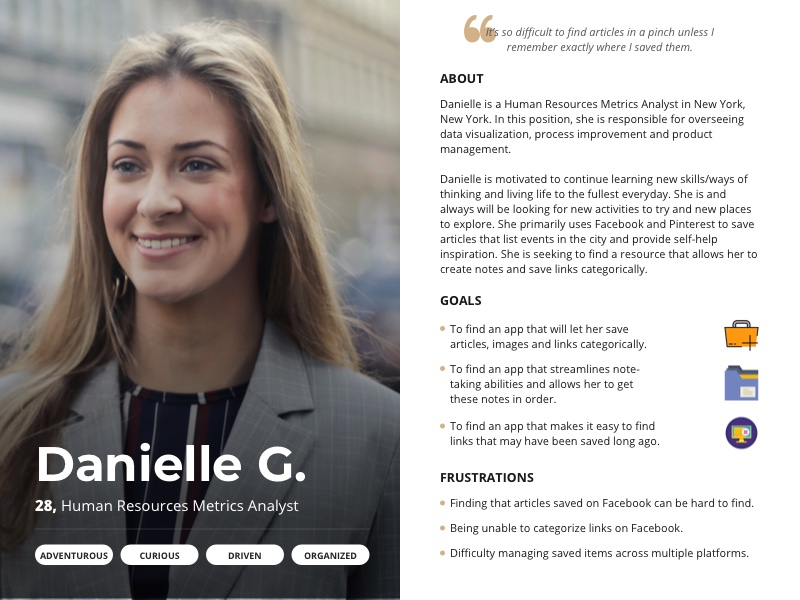
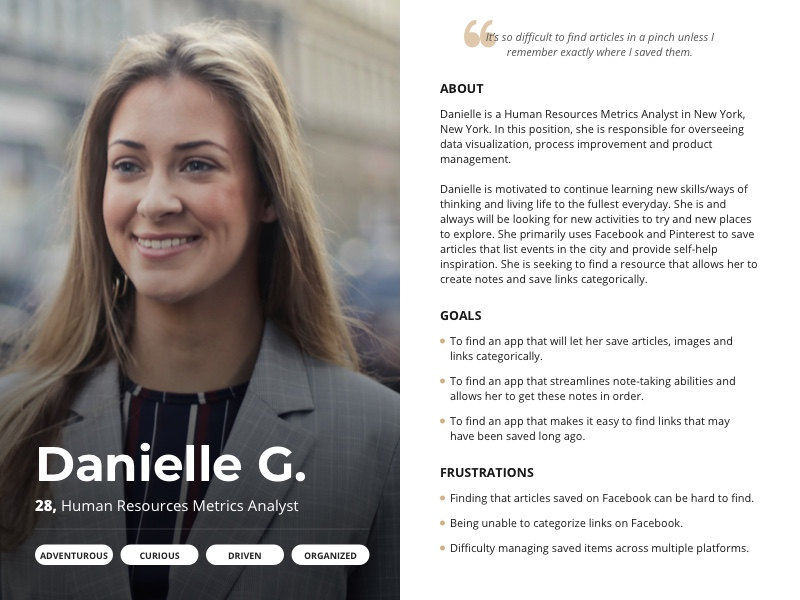
Personas update

diff --git a/yattavision.html b/yattavision.html
@@ -170,43 +170,27 @@
 										</ul>
 										<div class="read_me">
 											<a href="https://docs.google.com/document/d/1JsE6pN4huqqCILlFq3_0Rf4jnadxgwpf282lmWpbcBM/edit?usp=sharing" target="_blank" class="read">Read the full User Survey Analysis here</a>
-										</div>
-									</div>
-								</div>
-							</div>
-						</div>
-					</div>
-			   </div>
-			    <div class="persons_blog">
-				  <div class="container">
-					 <div class="persons persons1">
-						<h2>User Personas</h2>
-						<div class="nicks nicks2">
-							<ul>
-								<li><a href="#"><img src="images/img74.png" alt="img74"></a></li>
-								<li><a href="#"><img src="images/img75.png" alt="img75"></a></li>
-								<li><a href="#"><img src="images/img76.png" alt="img76"></a></li>
-								<li><a href="#"><img src="images/img77.png" alt="img77"></a></li>
-							</ul>
-							<div class="clear"></div>
-						</div>
-						<div class="persons_list persons_list1">
-							<ul>
-								<li><p><span>John,</span> 28, says that having an LTE-capable pair of eyeglasses with effective voice recognition software and smartphone functionality would be a very appealing prospect to him.
-</p></li>
-								<li><p><span>Mike,</span> 28, wants notifications to be delivered directly to his glasses-this would help keep him on top of his work and prevent distraction while driving or when he is out with family and friends.</p></li>
-								<li><p><span>Anna,</span> 24, experiences back/neck pain and posture issues after prolonged use of her iPhone and iPad. She is also looking to avoid eye strain whenever possible.</p></li>
-								<li class="last"><p><span>Maggie,</span> 64, needs ”a device that would use only hand gestures and voice control…this would help to alleviate a lot of my technological frustration.”</p></li>
-							</ul>
-						</div>
-						<div class="read_me read_me1">
-							<a href="JavaScript:Void(0);" class="read">View all User Personas here</a>
-						</div>
-					 </div>
-				  </div>
-			   </div>
-
-				<div class="users_blog">
+                    </div>
+                  </div>
+                </div>
+              </div>
+            </div>
+          </div>
+         </div>
+          <div class="persons_blog">
+          <div class="container">
+           <div class="persons persons1">
+            <h2>User Personas</h2>
+            <div class="nicks">
+                <a href="#"><img src="images/persona3.jpg" alt="persona3"></a>
+            </div>
+              <div class="read_me read_me1">
+              <a href="https://drive.google.com/open?id=1wDw7dv0YW9VmLP80bmdcUJjGYXlBb4wF" target="_blank" class="read">View all User Personas here</a>
+            </div>
+           </div>
+          </div>
+         </div>
+        <div class="users_blog">
 					<div class="container">
 						<div class="users">
 							<h2>User Stories</h2>

diff --git a/wheelmeals.html b/wheelmeals.html
@@ -166,40 +166,26 @@
 										</ul>
 										<div class="read_me">
 											<a href="https://docs.google.com/document/d/1JsE6pN4huqqCILlFq3_0Rf4jnadxgwpf282lmWpbcBM/edit?usp=sharing" target="_blank" class="read">Read the full User Survey Analysis here</a>
-										</div>
-
-									</div>
-								</div>
-							</div>
-						</div>
-					</div>
-			   </div>
-			    <div class="persons_blog">
-				  <div class="container">
-					 <div class="persons">
-						<h2>User Personas</h2>
-						<div class="nicks">
-							<ul>
-								<li><a href="#"><img src="images/img4.png" alt="img4"></a></li>
-								<li><a href="#"><img src="images/img5.png" alt="img5"></a></li>
-							</ul>
-							<div class="clear"></div>
-						</div>
-						<div class="persons_list">
-							<ul>
-								<li><p><span>Nick,</span> 29, states it’s very important that the app he uses lists the correct hours of operation and correct location for the truck.
-									</p></li>
-								<li><p><span>Victoria,</span> 35, wants to find “clean and well-maintained” establishments that have “good reviews” and can have an order prepared quickly. </p></li>
-								<li><p><span>Kevin,</span> 27, wants to be able to save his favorite trucks and see and/or reorder his previous meals. </p></li>
-								<li class="last"><p><span>Karine,</span> 66, finds that the existing crop of food truck apps are “difficult to navigate.” </p></li>
-							</ul>
-						</div>
-						<div class="read_me read_me1">
-							<a href="JavaScript:Void(0);" class="read">View all User Personas here</a>
-						</div>
-					 </div>
-				  </div>
-			   </div>
+                    </div>
+                  </div>
+                </div>
+              </div>
+            </div>
+          </div>
+         </div>
+          <div class="persons_blog">
+          <div class="container">
+           <div class="persons persons1">
+            <h2>User Personas</h2>
+            <div class="nicks">
+                <a href="#"><img src="images/persona2.jpg" alt="persona2"></a>
+            </div>
+              <div class="read_me read_me1">
+              <a href="https://drive.google.com/open?id=1k3kpgH70nA9EfF1U_bVG3iIyXWU4CPMU" target="_blank" class="read">View all User Personas here</a>
+            </div>
+           </div>
+          </div>
+         </div>
 
 				<div class="users_blog">
 					<div class="container">

diff --git a/blocbox.html b/blocbox.html
@@ -178,15 +178,8 @@
 						<div class="nicks">
 								<a href="#"><img src="images/img36.jpg" alt="img36"></a>
 						</div>
-						<div class="persons_list persons_list1">
-							<ul>
-								<li><p><span>Melissa,</span> 17, is looking to find a central site that will sync all of her saved articles, videos and notes at a low cost.</p></li>
-								<li><p><span>Danielle,</span> 28, is looking for an app that will her to streamline note-taking and organization of those notes, as well as allow her to save articles and links categorically for business purposes.</p></li>
-								<li class="last"><p><span>Stephen,</span>40, is looking for a note-taking app that will sync across all devices and would allow him to save and categorize notes, links and videos for easy access. </p></li>
-							</ul>
-						</div>
-						<div class="read_me read_me1">
-							<a href="JavaScript:Void(0);" class="read">View all User Personas here</a>
+							<div class="read_me read_me1">
+							<a href="https://drive.google.com/open?id=1Jc6hvRDQOTeij-UGlonTAYR2HObPSDIN" target="_blank" class="read">View all User Personas here</a>
 						</div>
 					 </div>
 				  </div>

diff --git a/css/style.css b/css/style.css
@@ -151,11 +151,7 @@ nav ul li a:focus						    {  color:#ffffff; }
 .persons_blog { background:#eeeeee; padding:20px0 0 20px 0;}
 .persons	  {/* padding:50px 0 50px 0; */}
 .persons h2	  { text-align: center; font-weight: 600;}
-.nicks  	  {background: #fff;margin: 0 0 0 0;}
-.nicks ul 	  {display: block;font-size: 0;margin: 0 -22px;}
-.nicks ul li  {display: inline-block;width: 50%;padding: 0 22px; vertical-align: bottom;}
-.nicks ul li a { display: block;}
-.nicks ul li a img { display: block;}
+.nicks img { display: block; margin-left: auto; margin-right: auto; width: 75%}
 
 .persons {max-width: 695px;margin: 0 auto;padding: 46px 0 35px 0;}
 .persons_list {padding: 10px 0 10px 0;}
